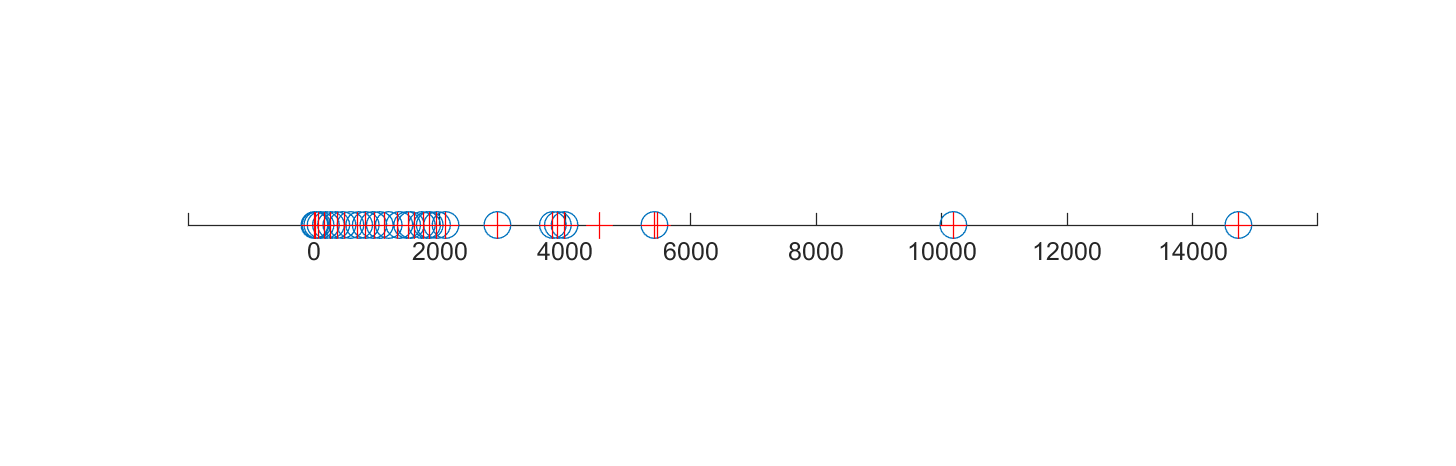
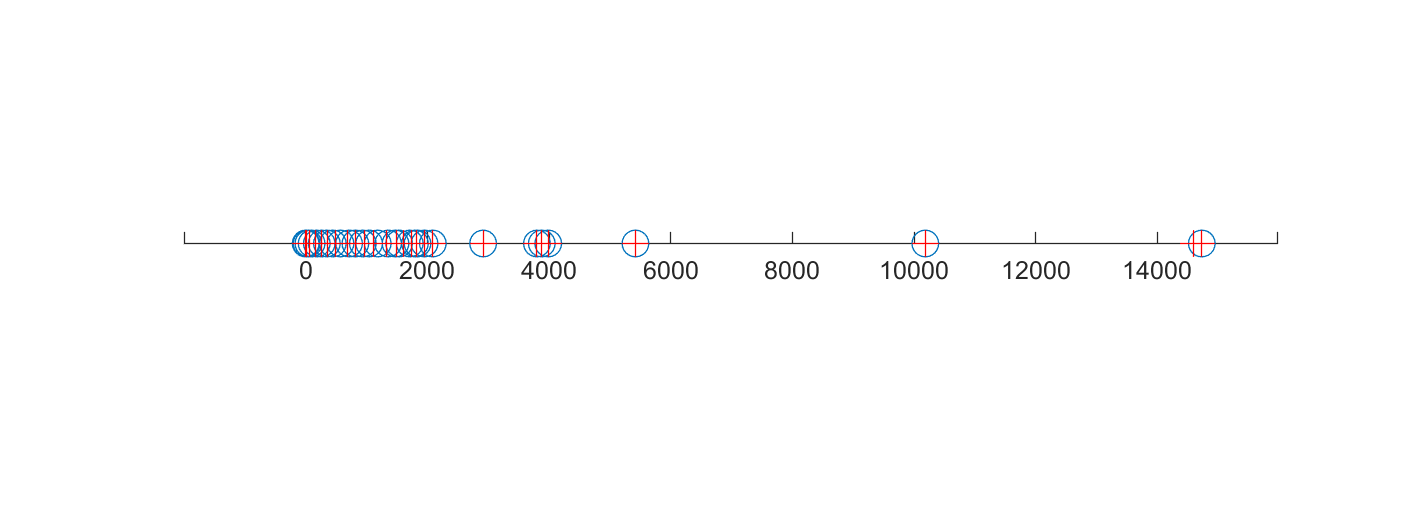
Add files via upload

Changed region(s): [[0.1246, 0.4506, 0.903, 0.5708]]

diff --git a/matrix_computation/krylov.m b/matrix_computation/krylov.m
@@ -1,7 +1,7 @@
 clc;clear; 
 addpath(genpath('utils'));
 
-E = load('data/gowalla.txt'); 
+E = load('data/facebook.txt'); 
 A = getLaplacian(E, true);
 verbose = true;
 
@@ -10,20 +10,20 @@ k = 30;
 % Arnoldi method
 fprintf("Arnoldi:\n")
 [U, H] = arnoldi_method(A, k, verbose);
-[eigvec, eigval]= eigs(H);
+[eigvec, eigval_H]= eigs(H, k);
 eigvec = U*eigvec;
-check = norm(A*eigvec - eigvec*eigval);
+check = norm(A*eigvec - eigvec*eigval_H);
 fprintf("norm(Ax-λx): %f \n\n", check);
 
 % Lanczos method
 fprintf("Lanczos:\n")
 [U, T] = lanczos_method(A, k, verbose);
-[eigvec, eigval]= eigs(T);
+[eigvec, eigval_T]= eigs(T, k);
 eigvec = U*eigvec;
-check = norm(A*eigvec - eigvec*eigval);
+check = norm(A*eigvec - eigvec*eigval_T);
 fprintf("norm(Ax-λx): %f \n\n", check);
 
-eigH = eig(H); eigT = eig(T); 
+
 figure; ax = gca; ax.XAxisLocation='origin'; ax.YAxis.Visible='off'; hold on
-plot(eigH, 0, 'o', MarkerSize=10, Color="#0072BD"); % blue circles: e.vals of H
-plot(eigT, 0, '+', MarkerSize=10, Color="red"); % red crosses: e.vals of T
+plot(diag(eigval_H), 0, 'o', MarkerSize=10, Color="#0072BD"); % blue circles: eigvals of H
+plot(diag(eigval_T), 0, '+', MarkerSize=10, Color="red"); % red crosses: eigvals of T

diff --git a/matrix_computation/utils/lanczos_method.m b/matrix_computation/utils/lanczos_method.m
@@ -7,10 +7,7 @@ function [U, T] = lanczos_method(matrix, k, verbose)
     n = size(matrix,1);
 
     u = matrix\randn(n,1); % initial guess
-    u = u / norm(u); % normalize initial guess
-
-    H = zeros(k+1, k);
-    U = u;
+    U = u / norm(u); % normalize initial guess
 
     v = matrix * U(:,1);
     T(1,1) = v' * U(:,1); % alpha
@@ -22,18 +19,16 @@ function [U, T] = lanczos_method(matrix, k, verbose)
 
     for i = 2:k
 
-        v = matrix * U(:,i);
         T(i-1,i) = T(i,i-1); 
 
-        v = v - T(i-1,i) * U(:,i-1); 
+        v = matrix * U(:,i);
         T(i,i) = v' * U(:,i); % alpha
 
-        v = v - T(i,i) * U(:,i); 
+        v = v - T(i,i) * U(:,i) - T(i-1,i) * U(:,i-1); 
         T(i+1, i) = norm(v); % beta
 
         U(:,i+1) = v / T(i+1, i);
     end
-    
     U = U(:,1:k);
     T = T(1:k,:);
 

diff --git a/matrix_computation/hw4_krylov_method.m b/matrix_computation/hw4_krylov_method.m
@@ -5,6 +5,7 @@ E = load('data/facebook.txt');
 A = getLaplacian(E, true);
 
 m = 30;
+verbose = true;
 
 eps = 1e-14;
 iter = 1e+3;
@@ -42,10 +43,10 @@ fprintf("norm(Ax-λx): %f \n\n", check);
 % fprintf("norm(Ax-λx): %f \n\n", check);
 
 
-function sol = Shift_A_inv_b(rhs, factor)
-    sol = factor.Perm_amd * (factor.U \ (factor.L \ (factor.Perm_LU * rhs(factor.Perm_amd_vec,:))));
-end
-
 function sol = GE_Shift_LS(b, A)
     sol = A \ b;
+end
+
+function sol = Shift_A_inv_b(rhs, factor)
+    sol = factor.Perm_amd * (factor.U \ (factor.L \ (factor.Perm_LU * rhs(factor.Perm_amd_vec,:))));
 end
